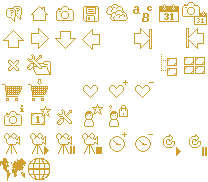
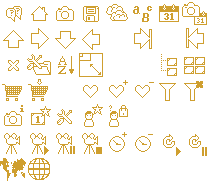
features : -grum-dark-II added
bugs :
-gbo, sylvia sprite updated
-sets with a sprite which does not contain new icons of 2.4, use tango ones

git-svn-id: http://piwigo.org/svn/extensions/Icons_Set@14167 68402e56-0260-453c-a942-63ccdbb3a9ee

Changed region(s): [[0.2596, 0.2747, 0.5192, 0.4396], [0.8942, 0.4396, 0.9808, 0.5495], [0.75, 0.4396, 0.8365, 0.5495]]

diff --git a/icons/tango_bleu/icon_admin.css b/icons/tango_bleu/icon_admin.css
@@ -1,54 +1,54 @@
-#iconBox_tango_vert .pwg-icon {
+#iconBox_tango_bleu .pwg-icon {
 	background-image: url(sprite.png);
 }
-#iconBox_tango_vert A.pwg-button {
+#iconBox_tango_bleu A.pwg-button {
 	border:none;
 }
-#iconBox_tango_vert .pwg-state-disabled .pwg-icon-arrow-e{ background-position: 0 -144px; width: 22px; height: 22px; } 
-#iconBox_tango_vert .pwg-icon-apropos{ background-position: 0 0; width: 22px; height: 22px; } 
-#iconBox_tango_vert .pwg-icon-arrow-e{ background-position: 0 -37px; width: 22px; height: 22px; } 
-#iconBox_tango_vert .pwg-state-disabled .pwg-icon-arrow-e{ background-position: 0 -74px; width: 22px; height: 22px; } 
-#iconBox_tango_vert .pwg-icon-arrow-n{ background-position: 0 -111px; width: 22px; height: 22px; } 
-#iconBox_tango_vert .pwg-icon-arrow-w{ background-position: 0 -148px; width: 22px; height: 22px; } 
-#iconBox_tango_vert .pwg-state-disabled .pwg-icon-arrow-w{ background-position: 0 -185px; width: 22px; height: 22px; } 
-#iconBox_tango_vert .pwg-icon-arrowstop-e{ background-position: 0 -222px; width: 22px; height: 22px; } 
-#iconBox_tango_vert .pwg-state-disabled .pwg-icon-arrowstop-e{ background-position: 0 -259px; width: 22px; height: 22px; } 
-#iconBox_tango_vert .pwg-icon-arrowstop-w{ background-position: 0 -296px; width: 22px; height: 22px; } 
-#iconBox_tango_vert .pwg-state-disabled .pwg-icon-arrowstop-w{ background-position: 0 -333px; width: 22px; height: 22px; } 
-#iconBox_tango_vert .pwg-icon-caddie-add{ background-position: 0 -370px; width: 24px; height: 24px; } 
-#iconBox_tango_vert .pwg-icon-calendar{ background-position: 0 -409px; width: 22px; height: 22px; } 
-#iconBox_tango_vert .pwg-icon-camera-calendar{ background-position: 0 -446px; width: 24px; height: 24px; } 
-#iconBox_tango_vert .pwg-icon-camera-info{ background-position: 0 -485px; width: 22px; height: 22px; } 
-#iconBox_tango_vert .pwg-icon-category-edit{ background-position: 0 -522px; width: 22px; height: 22px; } 
-#iconBox_tango_vert .pwg-icon-category-view-flat{ background-position: 0 -559px; width: 22px; height: 22px; } 
-#iconBox_tango_vert .pwg-icon-category-view-normal{ background-position: 0 -596px; width: 22px; height: 22px; } 
-#iconBox_tango_vert .pwg-icon-chat{ background-position: 0 -633px; width: 22px; height: 22px; } 
-#iconBox_tango_vert .pwg-icon-clock-minus{ background-position: 0 -670px; width: 22px; height: 22px; } 
-#iconBox_tango_vert .pwg-icon-clock-plus{ background-position: 0 -707px; width: 22px; height: 22px; } 
-#iconBox_tango_vert .pwg-icon-close{ background-position: 0 -744px; width: 24px; height: 24px; } 
-#iconBox_tango_vert .pwg-icon-cloud{ background-position: 0 -783px; width: 22px; height: 22px; } 
-#iconBox_tango_vert .pwg-icon-edit{ background-position: 0 -820px; width: 22px; height: 22px; } 
-#iconBox_tango_vert .pwg-icon-favorite-add{ background-position: 0 -857px; width: 22px; height: 22px; } 
-#iconBox_tango_vert .pwg-icon-favorite-del{ background-position: 0 -894px; width: 22px; height: 22px; } 
-#iconBox_tango_vert .pwg-icon-filter-del{ background-position: 0 -931px; width: 24px; height: 24px; } 
-#iconBox_tango_vert .pwg-icon-filter{ background-position: 0 -970px; width: 24px; height: 24px; } 
-#iconBox_tango_vert .pwg-icon-help{ background-position: 0 -1009px; width: 22px; height: 22px; } 
-#iconBox_tango_vert .pwg-icon-home{ background-position: 0 -1046px; width: 22px; height: 22px; } 
-#iconBox_tango_vert .pwg-icon-letters{ background-position: 0 -1083px; width: 22px; height: 22px; } 
-#iconBox_tango_vert .pwg-icon-lost-password{ background-position: 0 -1120px; width: 24px; height: 24px; } 
-#iconBox_tango_vert .pwg-icon-pause{ background-position: 0 -1159px; width: 22px; height: 22px; } 
-#iconBox_tango_vert .pwg-icon-play{ background-position: 0 -1196px; width: 22px; height: 22px; } 
-#iconBox_tango_vert .pwg-icon-register{ background-position: 0 -1233px; width: 24px; height: 24px; } 
-#iconBox_tango_vert .pwg-icon-repeat-play{ background-position: 0 -1272px; width: 22px; height: 22px; } 
-#iconBox_tango_vert .pwg-icon-repeat-stop{ background-position: 0 -1309px; width: 22px; height: 22px; } 
-#iconBox_tango_vert .pwg-icon-representative{ background-position: 0 -1346px; width: 22px; height: 22px; } 
-#iconBox_tango_vert .pwg-icon-rss{ background-position: 0 -1383px; width: 22px; height: 22px; } 
-#iconBox_tango_vert .pwg-icon-save{ background-position: 0 -1420px; width: 24px; height: 24px; } 
-#iconBox_tango_vert .pwg-icon-search{ background-position: 0 -1459px; width: 22px; height: 22px; } 
-#iconBox_tango_vert .pwg-icon-sizes{ background-position: 0 -1496px; width: 48px; height: 24px; } 
-#iconBox_tango_vert .pwg-icon-slideshow{ background-position: 0 -1535px; width: 22px; height: 22px; } 
-#iconBox_tango_vert .pwg-icon-small_resizable{ background-position: 0 -1572px; width: 16px; height: 16px; } 
-#iconBox_tango_vert .pwg-icon-sort{ background-position: 0 -1603px; width: 24px; height: 24px; } 
-#iconBox_tango_vert .pwg-icon-stop{ background-position: 0 -1642px; width: 22px; height: 22px; } 
-#iconBox_tango_vert .pwg-icon-tag{ background-position: 0 -1679px; width: 22px; height: 22px; } 
-#iconBox_tango_vert .pwg-icon-upload{ background-position: 0 -1716px; width: 22px; height: 22px; } 
+#iconBox_tango_bleu .pwg-state-disabled .pwg-icon-arrow-e{ background-position: 0 -144px; width: 22px; height: 22px; } 
+#iconBox_tango_bleu .pwg-icon-apropos{ background-position: 0 0; width: 22px; height: 22px; } 
+#iconBox_tango_bleu .pwg-icon-arrow-e{ background-position: 0 -37px; width: 22px; height: 22px; } 
+#iconBox_tango_bleu .pwg-state-disabled .pwg-icon-arrow-e{ background-position: 0 -74px; width: 22px; height: 22px; } 
+#iconBox_tango_bleu .pwg-icon-arrow-n{ background-position: 0 -111px; width: 22px; height: 22px; } 
+#iconBox_tango_bleu .pwg-icon-arrow-w{ background-position: 0 -148px; width: 22px; height: 22px; } 
+#iconBox_tango_bleu .pwg-state-disabled .pwg-icon-arrow-w{ background-position: 0 -185px; width: 22px; height: 22px; } 
+#iconBox_tango_bleu .pwg-icon-arrowstop-e{ background-position: 0 -222px; width: 22px; height: 22px; } 
+#iconBox_tango_bleu .pwg-state-disabled .pwg-icon-arrowstop-e{ background-position: 0 -259px; width: 22px; height: 22px; } 
+#iconBox_tango_bleu .pwg-icon-arrowstop-w{ background-position: 0 -296px; width: 22px; height: 22px; } 
+#iconBox_tango_bleu .pwg-state-disabled .pwg-icon-arrowstop-w{ background-position: 0 -333px; width: 22px; height: 22px; } 
+#iconBox_tango_bleu .pwg-icon-caddie-add{ background-position: 0 -370px; width: 24px; height: 24px; } 
+#iconBox_tango_bleu .pwg-icon-calendar{ background-position: 0 -409px; width: 22px; height: 22px; } 
+#iconBox_tango_bleu .pwg-icon-camera-calendar{ background-position: 0 -446px; width: 24px; height: 24px; } 
+#iconBox_tango_bleu .pwg-icon-camera-info{ background-position: 0 -485px; width: 22px; height: 22px; } 
+#iconBox_tango_bleu .pwg-icon-category-edit{ background-position: 0 -522px; width: 22px; height: 22px; } 
+#iconBox_tango_bleu .pwg-icon-category-view-flat{ background-position: 0 -559px; width: 22px; height: 22px; } 
+#iconBox_tango_bleu .pwg-icon-category-view-normal{ background-position: 0 -596px; width: 22px; height: 22px; } 
+#iconBox_tango_bleu .pwg-icon-chat{ background-position: 0 -633px; width: 22px; height: 22px; } 
+#iconBox_tango_bleu .pwg-icon-clock-minus{ background-position: 0 -670px; width: 22px; height: 22px; } 
+#iconBox_tango_bleu .pwg-icon-clock-plus{ background-position: 0 -707px; width: 22px; height: 22px; } 
+#iconBox_tango_bleu .pwg-icon-close{ background-position: 0 -744px; width: 24px; height: 24px; } 
+#iconBox_tango_bleu .pwg-icon-cloud{ background-position: 0 -783px; width: 22px; height: 22px; } 
+#iconBox_tango_bleu .pwg-icon-edit{ background-position: 0 -820px; width: 22px; height: 22px; } 
+#iconBox_tango_bleu .pwg-icon-favorite-add{ background-position: 0 -857px; width: 22px; height: 22px; } 
+#iconBox_tango_bleu .pwg-icon-favorite-del{ background-position: 0 -894px; width: 22px; height: 22px; } 
+#iconBox_tango_bleu .pwg-icon-filter-del{ background-position: 0 -931px; width: 24px; height: 24px; } 
+#iconBox_tango_bleu .pwg-icon-filter{ background-position: 0 -970px; width: 24px; height: 24px; } 
+#iconBox_tango_bleu .pwg-icon-help{ background-position: 0 -1009px; width: 22px; height: 22px; } 
+#iconBox_tango_bleu .pwg-icon-home{ background-position: 0 -1046px; width: 22px; height: 22px; } 
+#iconBox_tango_bleu .pwg-icon-letters{ background-position: 0 -1083px; width: 22px; height: 22px; } 
+#iconBox_tango_bleu .pwg-icon-lost-password{ background-position: 0 -1120px; width: 24px; height: 24px; } 
+#iconBox_tango_bleu .pwg-icon-pause{ background-position: 0 -1159px; width: 22px; height: 22px; } 
+#iconBox_tango_bleu .pwg-icon-play{ background-position: 0 -1196px; width: 22px; height: 22px; } 
+#iconBox_tango_bleu .pwg-icon-register{ background-position: 0 -1233px; width: 24px; height: 24px; } 
+#iconBox_tango_bleu .pwg-icon-repeat-play{ background-position: 0 -1272px; width: 22px; height: 22px; } 
+#iconBox_tango_bleu .pwg-icon-repeat-stop{ background-position: 0 -1309px; width: 22px; height: 22px; } 
+#iconBox_tango_bleu .pwg-icon-representative{ background-position: 0 -1346px; width: 22px; height: 22px; } 
+#iconBox_tango_bleu .pwg-icon-rss{ background-position: 0 -1383px; width: 22px; height: 22px; } 
+#iconBox_tango_bleu .pwg-icon-save{ background-position: 0 -1420px; width: 24px; height: 24px; } 
+#iconBox_tango_bleu .pwg-icon-search{ background-position: 0 -1459px; width: 22px; height: 22px; } 
+#iconBox_tango_bleu .pwg-icon-sizes{ background-position: 0 -1496px; width: 48px; height: 24px; } 
+#iconBox_tango_bleu .pwg-icon-slideshow{ background-position: 0 -1535px; width: 22px; height: 22px; } 
+#iconBox_tango_bleu .pwg-icon-small_resizable{ background-position: 0 -1572px; width: 16px; height: 16px; } 
+#iconBox_tango_bleu .pwg-icon-sort{ background-position: 0 -1603px; width: 24px; height: 24px; } 
+#iconBox_tango_bleu .pwg-icon-stop{ background-position: 0 -1642px; width: 22px; height: 22px; } 
+#iconBox_tango_bleu .pwg-icon-tag{ background-position: 0 -1679px; width: 22px; height: 22px; } 
+#iconBox_tango_bleu .pwg-icon-upload{ background-position: 0 -1716px; width: 22px; height: 22px; } 

diff --git a/icons/sakurabw/icon.css b/icons/sakurabw/icon.css
@@ -10,4 +10,13 @@
 A:hover .pwg-icon {
 	background-image: url(icons_sprite_hover.png);
 }
-
+#derivativeSwitchLink .pwg-icon {
+  background-image: url(../tango_vert/sprite.png);
+  width: 48px !important;
+  height: 24px;
+}
+#sortOrderLink .pwg-icon {
+  background-image: url(../tango_vert/sprite.png);
+}
+.pwg-icon-sizes{ background-position: 0 -1496px; width: 48px; height: 24px; } 
+.pwg-icon-sort{ background-position: 0 -1603px; width: 24px; height: 24px; } 

diff --git a/icons/old_sylvia/icon.css b/icons/old_sylvia/icon.css
@@ -10,4 +10,11 @@
 A:hover .pwg-icon, #iconBox_old_sylvia .pwg-icon a:hover {
 	background-image: url(showimage.png);
 }
-
+#derivativeSwitchLink .pwg-icon {
+  background-image: url(../sylvia/outline_ff3363.png);
+}
+#sortOrderLink .pwg-icon {
+  background-image: url(../sylvia/outline_ff3363.png);
+}
+.pwg-icon-sort {background-position: -52px -52px}
+.pwg-icon-sizes {background-position: -78px -52px}

diff --git a/icons/grum-dark-II/icon_admin.css b/icons/grum-dark-II/icon_admin.css
@@ -1,0 +1,8 @@
+
+#iconBox_grum_dark_II .pwg-icon {
+	background-image: url(icons_sprite.png);
+}
+
+#iconBox_grum_dark_II a:hover .pwg-icon {
+	background-image: url(icons_sprite_hover.png);
+}

diff --git a/icons/grum-dark-II/iconset.conf.php b/icons/grum-dark-II/iconset.conf.php
@@ -1,0 +1,10 @@
+<?php
+$iconsetconf = array(
+  'name' => 'grum dark II',
+  'id' => 'grum_dark_II',
+  'icon_file' => ICONSET_PATH.'icons/grum-dark-II/icons_sprite.png',
+  'css_file' => ICONSET_PATH.'icons/grum-dark-II/icon.css',
+  'css_file_admin' => ICONSET_PATH.'icons/grum-dark-II/icon_admin.css',
+);
+
+?>
